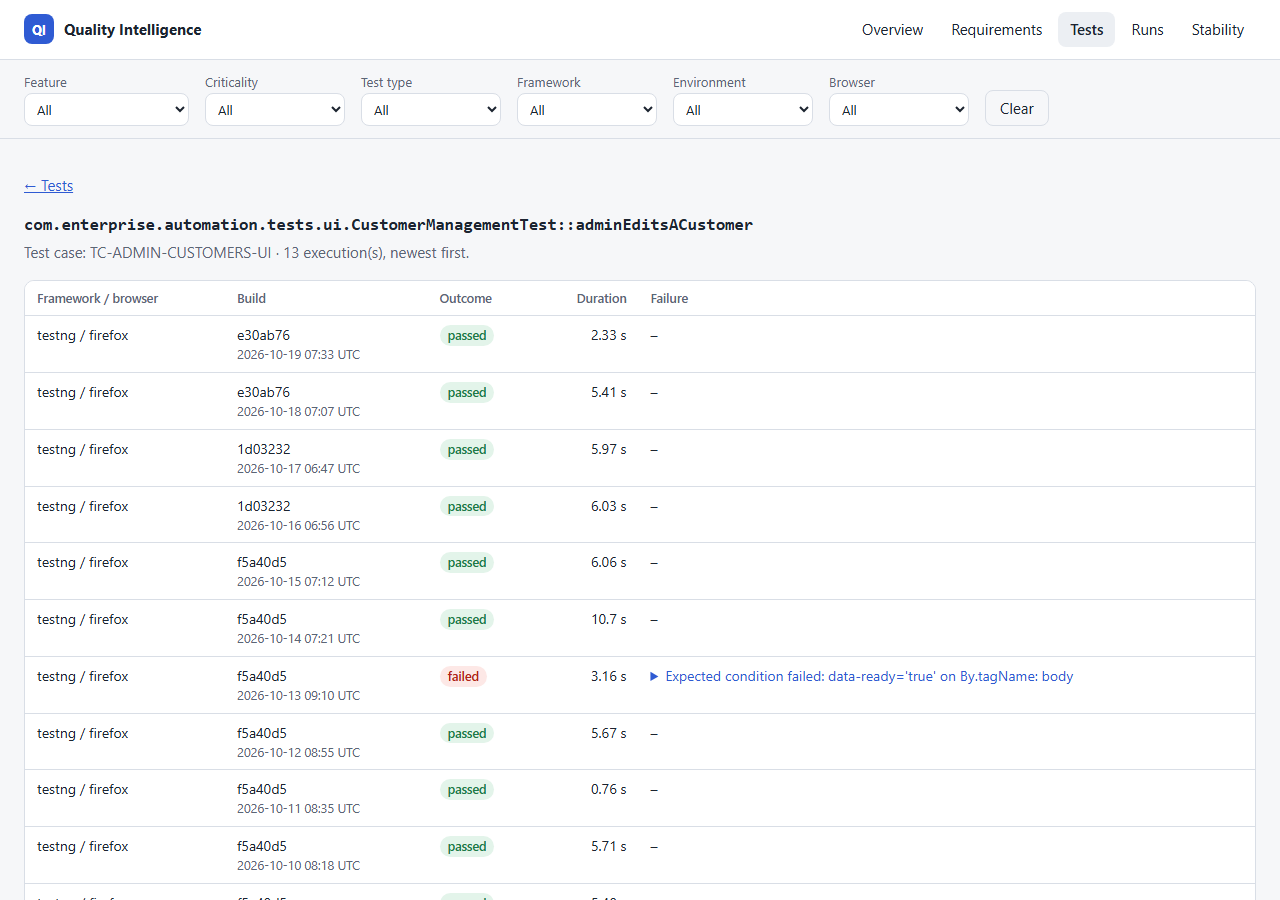
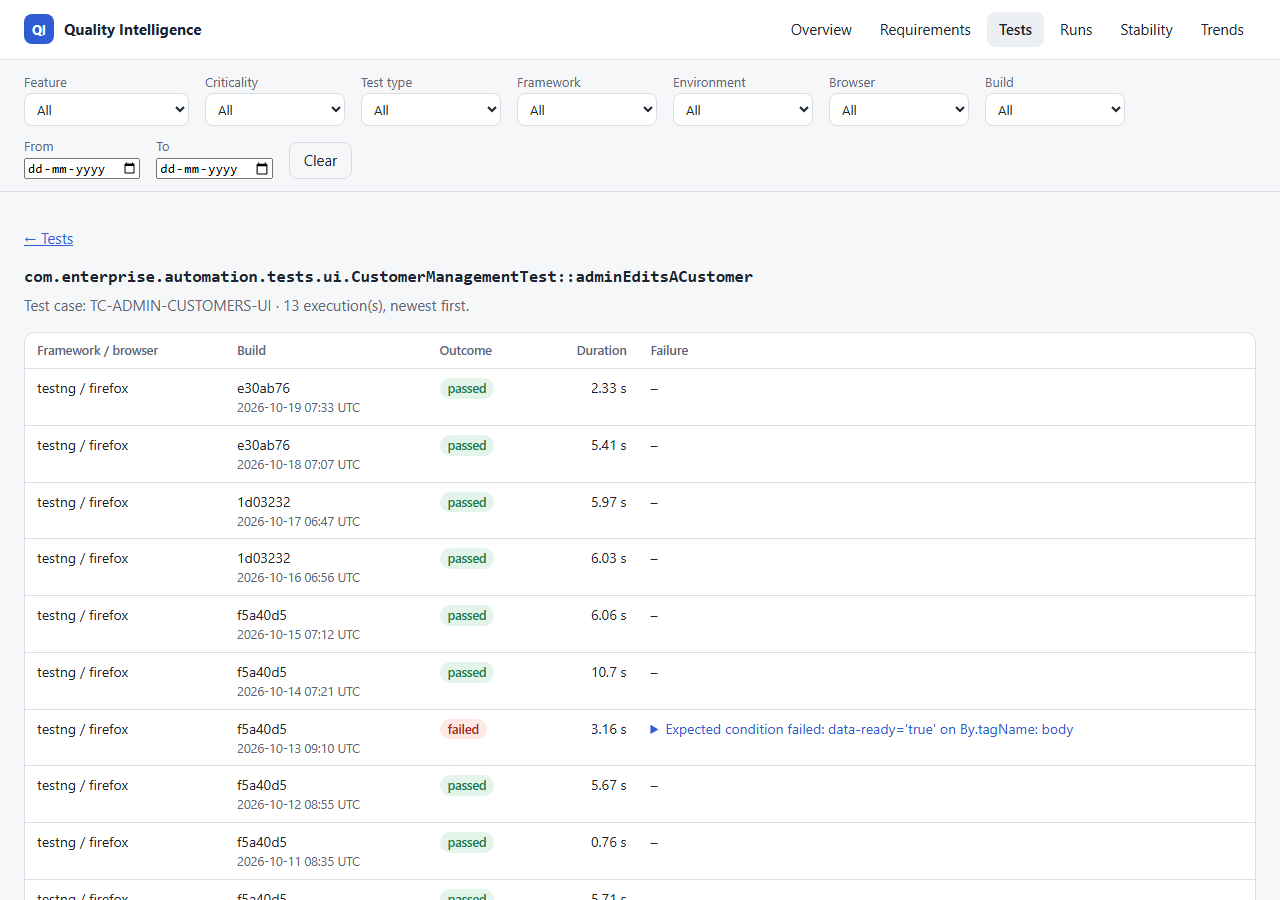
Demo and screenshots use a history database with a coverage snapshot; self gate covers trends

diff --git a/tools/screenshots.py b/tools/screenshots.py
@@ -23,6 +23,8 @@ from playwright.sync_api import sync_playwright
 
 from qualityintel.cli import main as cli_main
 from qualityintel.dashboard.app import create_app
+from qualityintel.history.store import HistoryStore
+from qualityintel.ingest.catalog_file import load_catalog
 from qualityintel.workspace import Workspace
 
 ROOT = Path(__file__).parents[1]
@@ -39,6 +41,7 @@ SHOTS = [
     ),
     ("dashboard-run.png", "#/runs?framework=playwright", 1280, "dark", False),
     ("dashboard-stability.png", "#/stability", 1280, "light", True),
+    ("dashboard-trends.png", "#/trends", 1280, "light", False),
     ("dashboard-phone.png", "#/", 390, "light", False),
 ]
 
@@ -47,10 +50,27 @@ def main(argv: list[str]) -> int:
     """Serve the samples, capture every entry of ``SHOTS``, stop the server."""
     out = Path(argv[0]) if argv else ROOT / "docs" / "images"
     out.mkdir(parents=True, exist_ok=True)
-    workspace, batch = Workspace.load(ROOT / "samples" / "catalog.toml", [ROOT / "samples" / "results"])
-    if not batch.complete:
+    # Like real use: the runs and a coverage snapshot come from a history database
+    history = Path(tempfile.mkdtemp()) / "quality.db"
+    with contextlib.redirect_stdout(io.StringIO()):
+        code = cli_main(
+            [
+                "history",
+                "import",
+                str(ROOT / "samples" / "results"),
+                "--database",
+                str(history),
+                "--catalog",
+                str(ROOT / "samples" / "catalog.toml"),
+            ]
+        )
+    if code != 0:
         print("samples did not import cleanly", file=sys.stderr)
         return 3
+    with HistoryStore(history) as store:
+        workspace = Workspace(
+            load_catalog(ROOT / "samples" / "catalog.toml"), store.runs(), store.snapshots()
+        )
     with socket.socket() as probe:
         probe.bind(("127.0.0.1", 0))
         port = int(probe.getsockname()[1])

diff --git a/tools/demo.py b/tools/demo.py
@@ -49,7 +49,11 @@ def steps(out: Path) -> list[Step]:
             ],
             0,
         ),
-        Step("4. Store the runs in the history", ["history", "import", results, "--database", database], 0),
+        Step(
+            "4. Store the runs in the history, with a coverage snapshot of the catalog",
+            ["history", "import", results, "--database", database, "--catalog", catalog],
+            0,
+        ),
         Step(
             "5. Importing the same files again adds nothing",
             ["history", "import", results, "--database", database],
